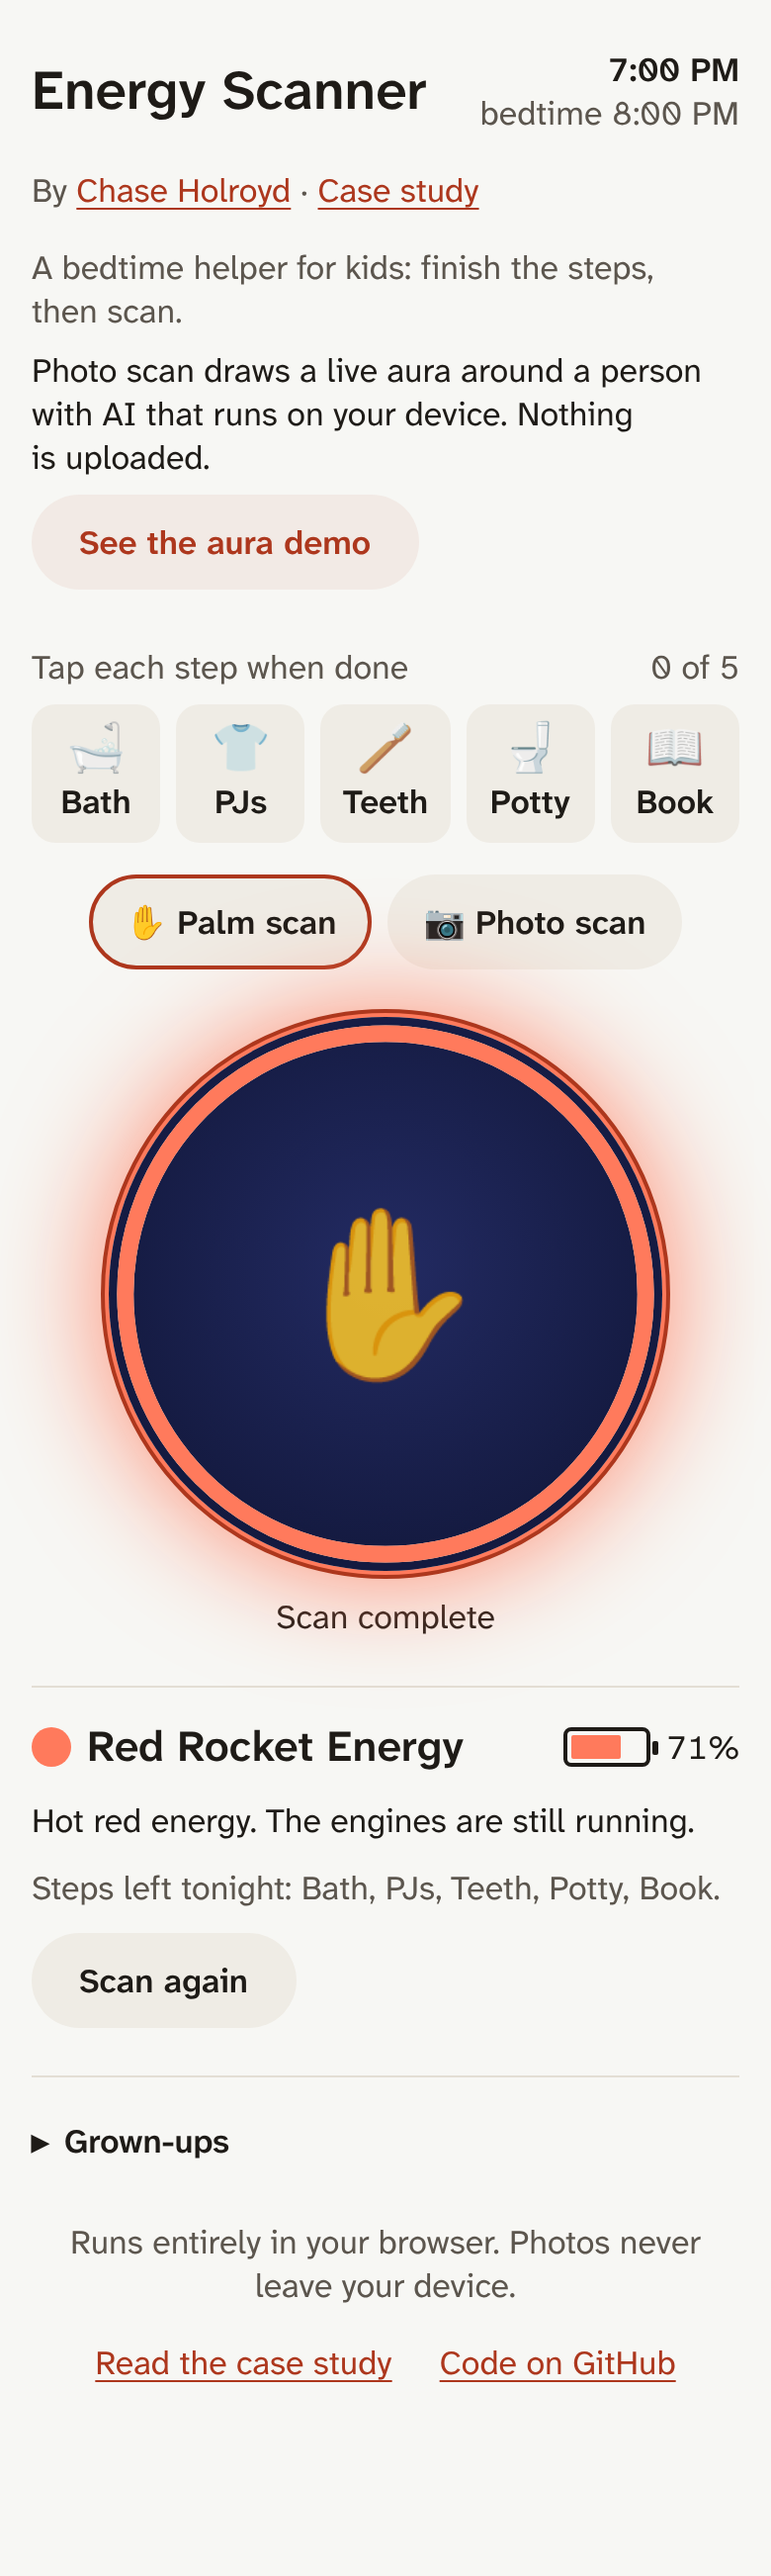
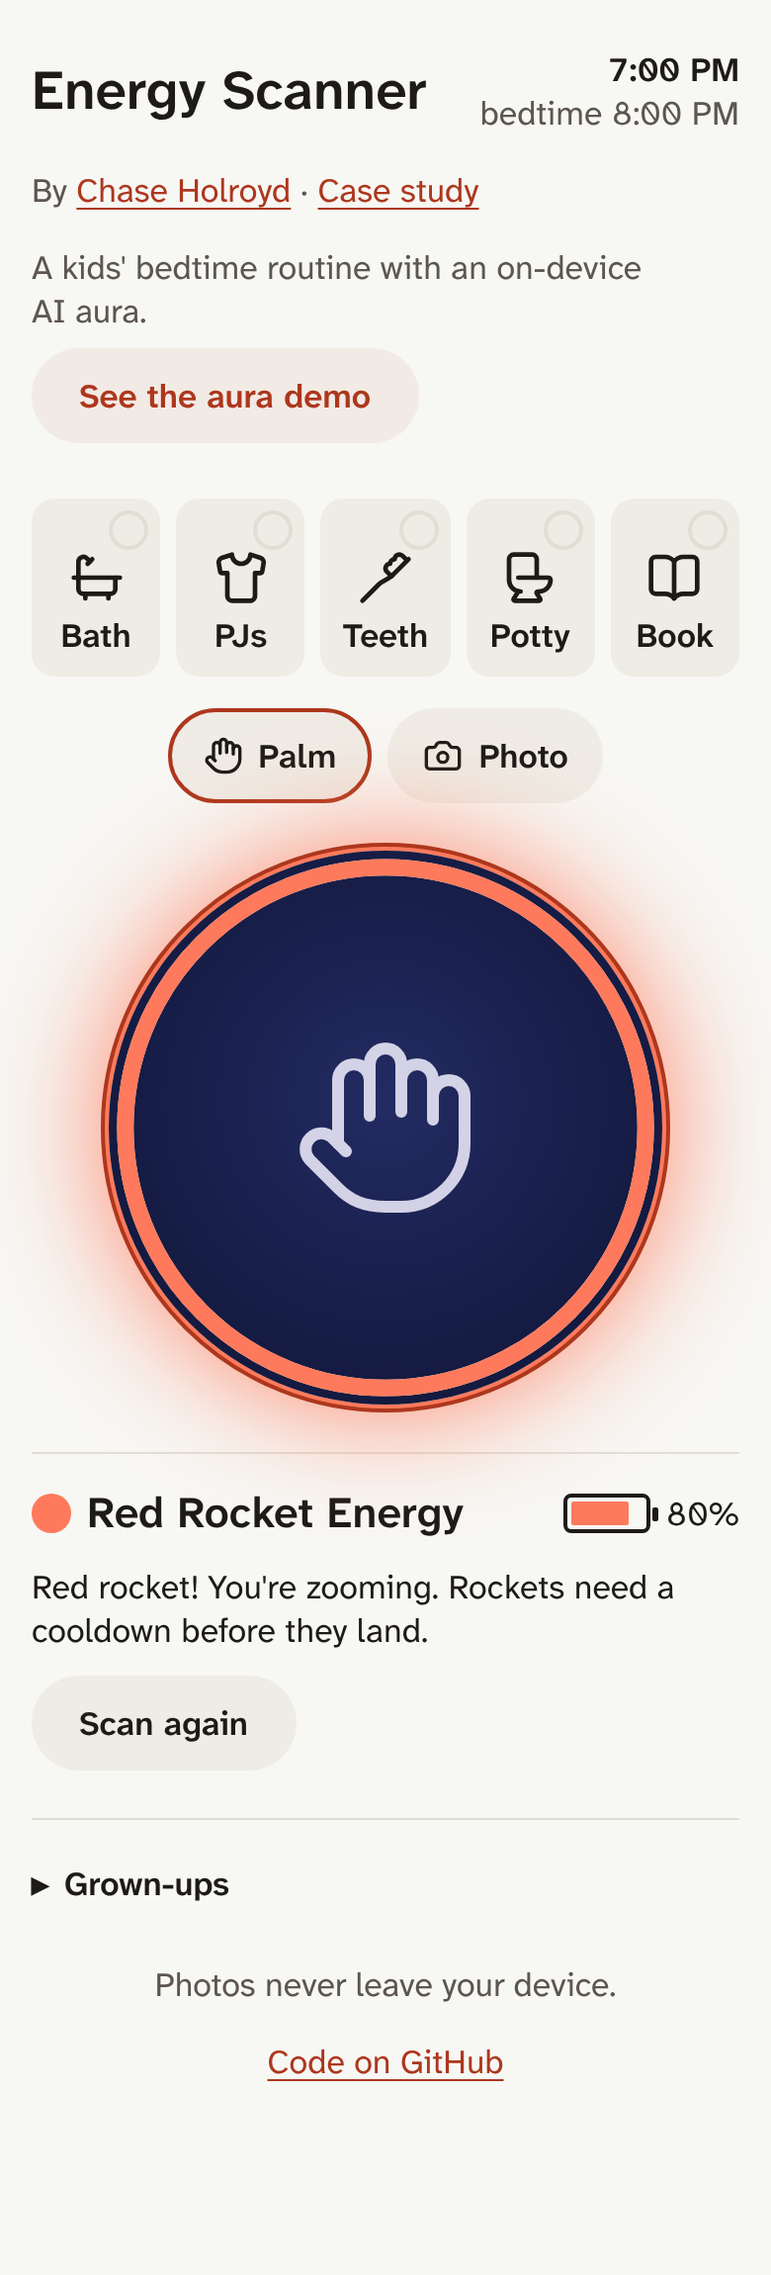
README and screenshots match the less-text app (positioning flags)
Claude-Session: https://claude.ai/code/session_01MKPp6QGsn6jtcxEJAhPWLA

diff --git a/README.md b/README.md
@@ -7,8 +7,8 @@ Everything runs in your browser. **Photos never leave your device.** There is no
 **Try it:** [chaseholroyd.com/energy-scanner](https://chaseholroyd.com/energy-scanner/), on a phone or laptop. No sign-up. No photo handy? Tap **See the aura demo**.
 
 <p align="center">
-  <img src="docs/screenshots/start-mobile.png" alt="Start screen: what it is, a See the aura demo button, bedtime steps, the Palm scan and Photo scan switch, and the palm pad" width="200" />
-  <img src="docs/screenshots/palm-mobile.png" alt="A palm scan an hour before bedtime reading Red Rocket Energy, with the steps left tonight" width="200" />
+  <img src="docs/screenshots/start-mobile.png" alt="Start screen: what it is, a See the aura demo button, bedtime steps, the Palm and Photo switch, and the palm pad" width="200" />
+  <img src="docs/screenshots/palm-mobile.png" alt="A palm scan an hour before bedtime reading Red Rocket Energy" width="200" />
   <img src="docs/screenshots/aura-rainbow.png" alt="The illustrated sample child with a glowing Rainbow aura" width="200" />
   <img src="docs/screenshots/aura-grey.png" alt="The same sample with a soft Grey aura at bedtime" width="200" />
 </p>
@@ -22,8 +22,8 @@ npm run dev        # open the printed localhost URL
 ```
 
 1. Tick off the **bedtime steps**: Bath, PJs, Teeth, Potty, Book.
-2. Pick the scan: **Palm scan** (press and hold until the ring fills) or **Photo scan** (take or upload a photo, or try the illustrated sample).
-3. The reading shows an energy color, a battery level and what's left to do. In a photo scan the aura glows off the child in that color: softer and slower when sleepy, blazing when it's Rainbow.
+2. Pick the scan: **Palm** (hold the hand until the ring fills) or **Photo** (take or choose a photo, or try the illustrated sample).
+3. The reading shows an energy color, and a battery level. In a photo scan the aura glows off the child in that color: softer and slower when sleepy, blazing when it's Rainbow.
 4. Grown-ups set bedtime and the Always Grey switch, and can **Save** or **Share** a photo scan.
 
 With the switch off, the reading follows the clock and the routine: the closer to bedtime and the more steps done, the sleepier the color. It never reads Rainbow once every step is done.
